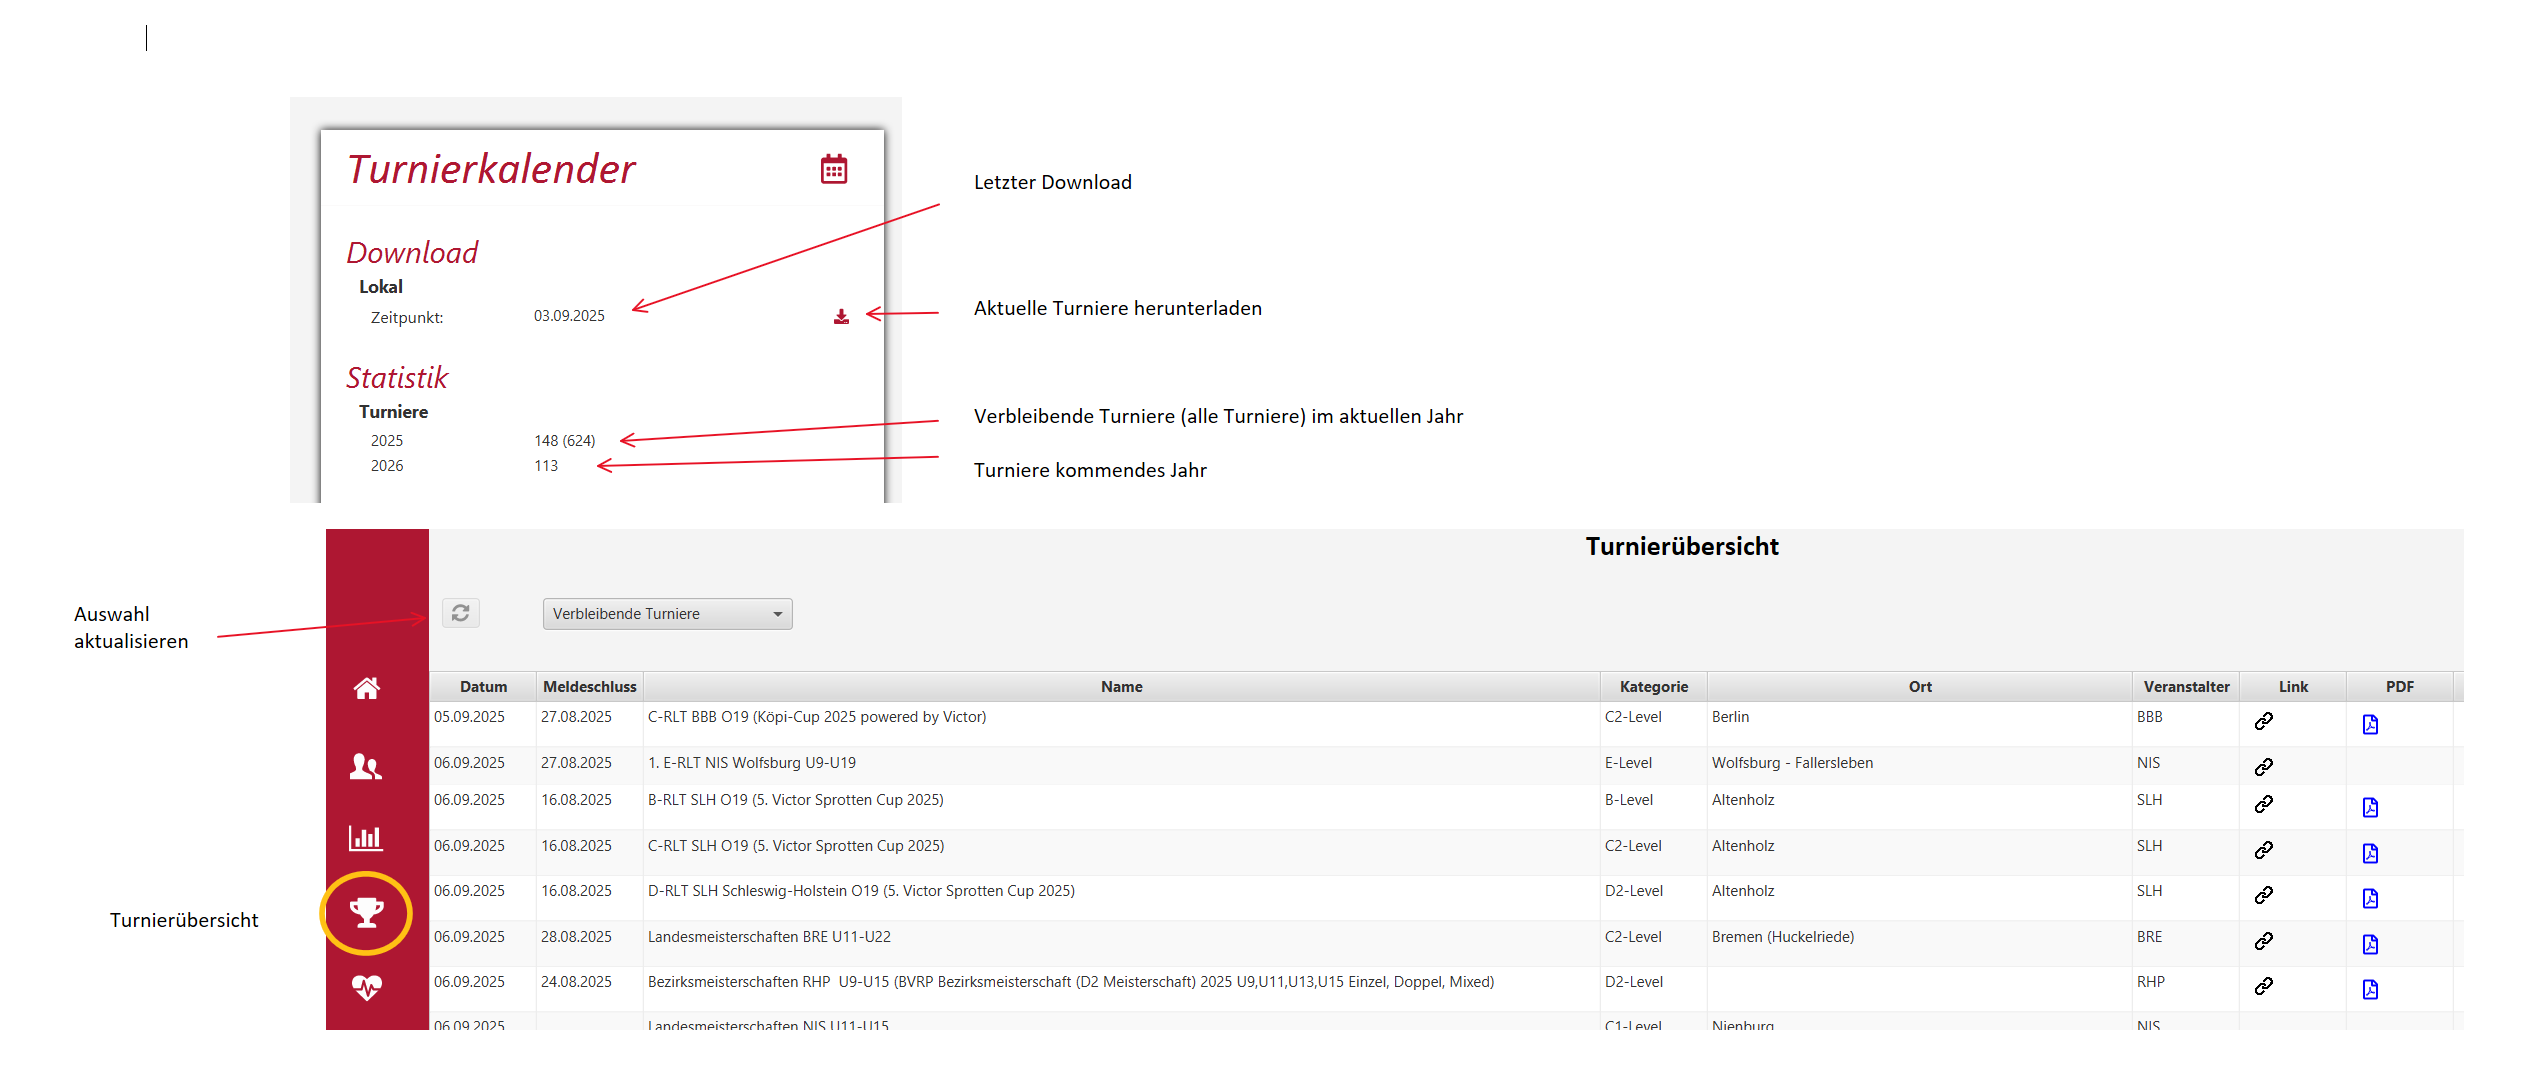
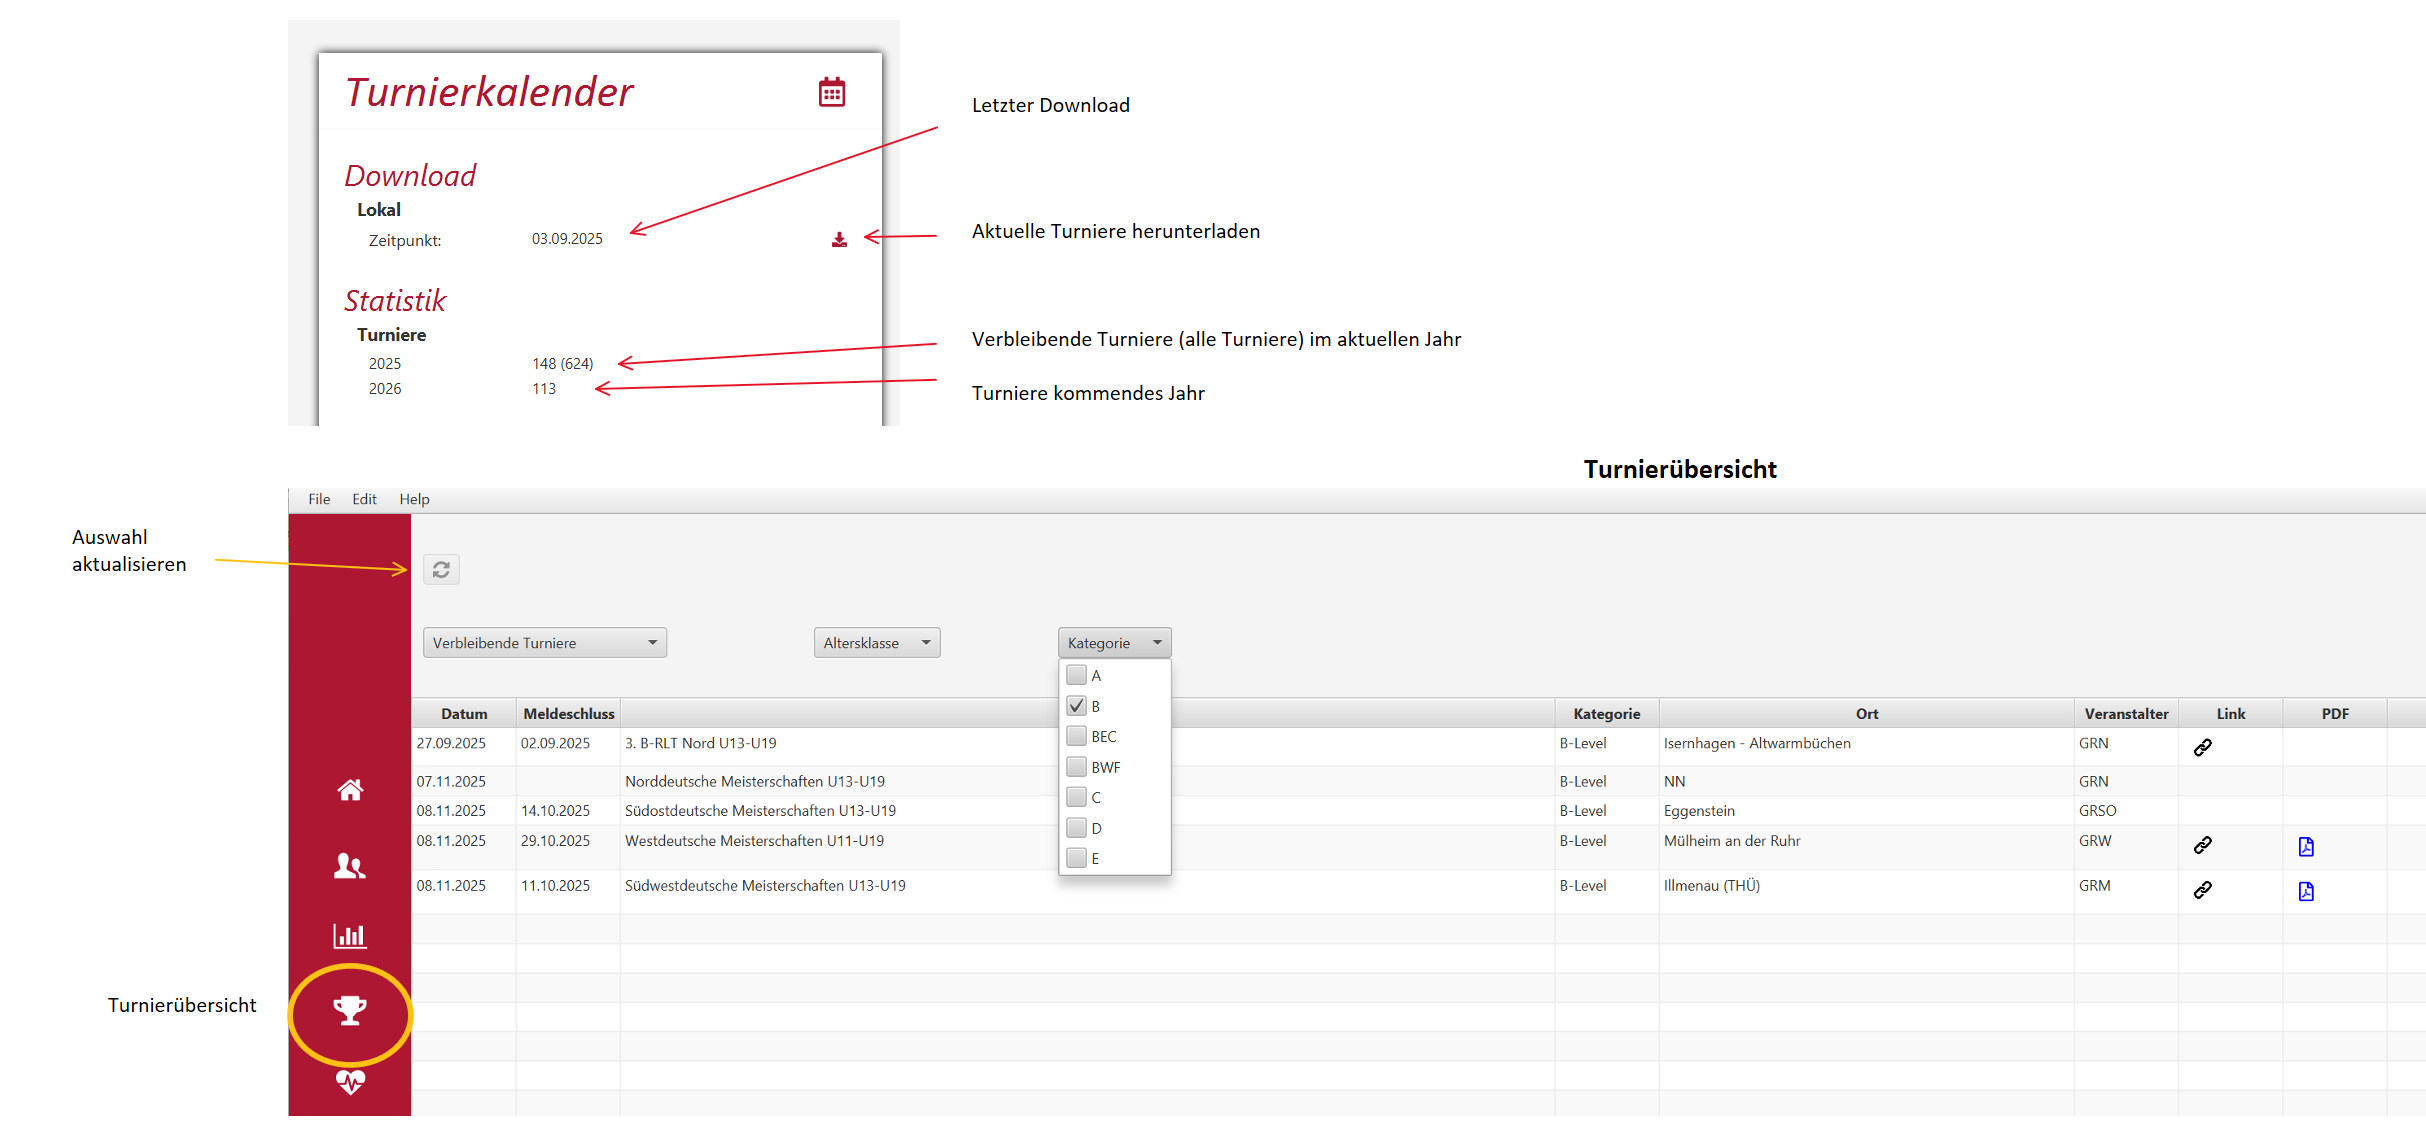
Update README documentation

diff --git a/README.md b/README.md
@@ -27,5 +27,9 @@ Jetzt wird es ein wenig technisch :-)
 
 
 + Alle Informationen zu den noch anstehenden Turnieren im aktuellen und kommenden Jahr
-
++ Es können folgende Filter genutzt werden:
+  + **Zeit**: alle Turniere, noch verbleibende Turniere, Turniere im kommenden Jahr
+  + **Altersklasse**: die Standard Altersklassen bei Badminton bei Turniere.de
+  + **Kategorie**: die Standard Kategorien von A-E Rangliste, sowie BEC und BWF Turniere die bei Turnier.de gelistet sind
+  
 ![Overview](help_img/calendar_tournament.png)
